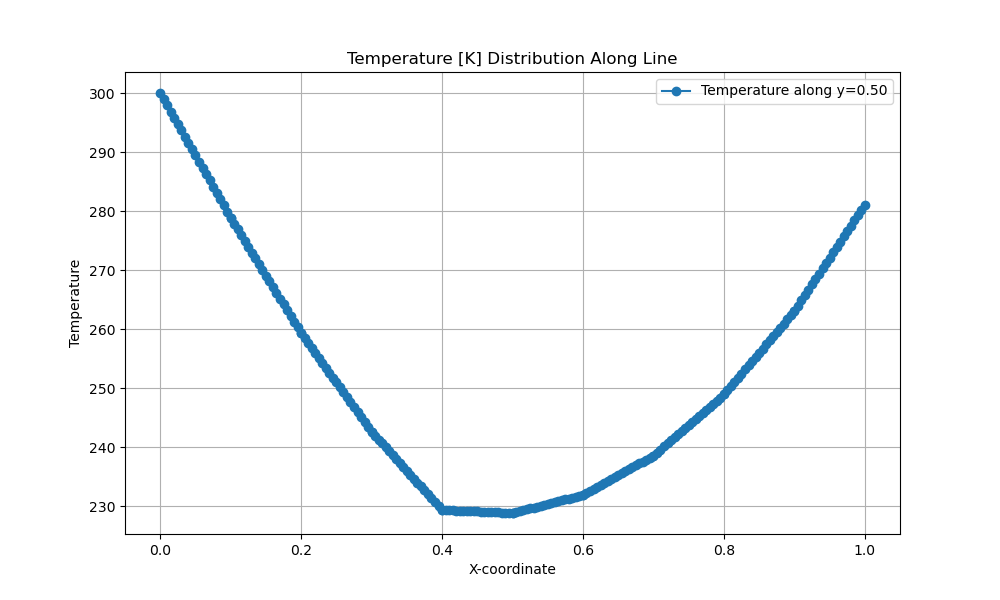
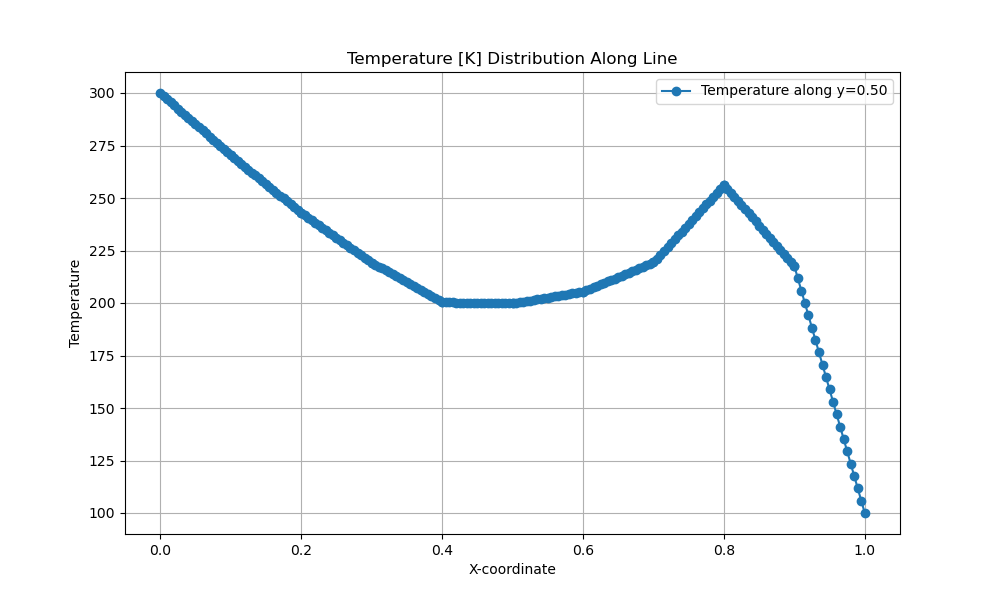
point heat source added

diff --git a/functions.py b/functions.py
@@ -64,8 +64,10 @@ def get_input_variables_from_file(file_path: str = 'input.json'):
     bc_left = input_variables['bc_left']
     bc_right = input_variables['bc_right']
     xy_plot = input_variables['xy_plot']
+    node = input_variables['node']
+    heat_value = input_variables['heat_value']
 
-    return n, m, len_x, len_y, h_x, h_y, t_left, t_right, t_top, t_bottom, x, k1, k2, q_right, q_left, q_bottom, q_top, bc_top, bc_bottom, bc_left, bc_right, xy_plot
+    return n, m, len_x, len_y, h_x, h_y, t_left, t_right, t_top, t_bottom, x, k1, k2, q_right, q_left, q_bottom, q_top, bc_top, bc_bottom, bc_left, bc_right, xy_plot, node, heat_value
 
 def get_local_matrix(h_x, h_y, k):
     """
@@ -239,6 +241,7 @@ def neumann_bottom(load_vector, n, m, h_x, q_bottom, num_nodes_x):
         load_vector[node_index] += q_bottom * h_x  # contribution of heat flux over element's length
 
     return load_vector
+ 
 
 def solve_for_temperatures(global_matrix, load_vector):
     """
@@ -339,7 +342,9 @@ def plot_temp_color_map(temperatures, x_coords, y_coords, len_x, len_y):
     plt.show()
 
 
-def apply_bc():
+n, m, len_x, len_y, h_x, h_y, t_left, t_right, t_top, t_bottom, x, k1, k2, q_right, q_left, q_bottom, q_top, bc_top, bc_bottom, bc_left, bc_right, xy_plot, node, heat_value = get_input_variables_from_file()
+
+def apply_bc(n, m, len_x, len_y, h_x, h_y, t_left, t_right, t_top, t_bottom, x, k1, k2, q_right, q_left, q_bottom, q_top, bc_top, bc_bottom, bc_left, bc_right, node, heat_value):
     """
     Function to first gather the input variables from input.json,
     then apply the boundary conditions, and finally solve for the temperatures.
@@ -356,7 +361,6 @@ def apply_bc():
     num_nodes_y: number of nodes in the y direction
     total_nodes: total number of nodes
     """
-    n, m, len_x, len_y, h_x, h_y, t_left, t_right, t_top, t_bottom, x, k1, k2, q_right, q_left, q_bottom, q_top, bc_top, bc_bottom, bc_left, bc_right, xy_plot = get_input_variables_from_file()
 
     num_nodes_x = n + 1
     num_nodes_y = m + 1
@@ -385,11 +389,22 @@ def apply_bc():
     elif bc_right == 'Neumann':
         load_vector = neumann_right(load_vector, n, m, h_y, q_right, num_nodes_y=num_nodes_y, num_nodes_x=num_nodes_x)
 
+    
+    x_coords, y_coords = get_node_coords(n, m, len_x, len_y)
+    
+    count = 1
+    for i,j in zip(x_coords, y_coords):
+        for x,y in zip(i, j):
+            count += 1
+
+    if node <= count and node is not None:
+        load_vector[node] += heat_value
+    elif node > count:
+        print('Node out of range. It will not be taken into account.')
+
     temperatures = solve_for_temperatures(global_matrix, load_vector)
 
-    x_coords, y_coords = get_node_coords(n, m, len_x, len_y)
-
-    return global_matrix, load_vector, temperatures, x_coords, y_coords, len_x, len_y, num_nodes_x, num_nodes_y, total_nodes, xy_plot
+    return global_matrix, load_vector, temperatures, x_coords, y_coords, num_nodes_x, num_nodes_y, total_nodes
 
 
 def interpolate_temperature_2d(temperatures, x_coords, y_coords, num_points=10):
@@ -517,11 +532,10 @@ def interpolate_temperature_along_line(temperatures, x_coords, y_coords, line='h
     plt.show()
 
 
-global_matrix, load_vector, temperatures, x_coords, y_coords, len_x, len_y, num_nodes_x, num_nodes_y, total_nodes, xy_plot = apply_bc()
-
-print(load_vector)
-print(global_matrix)
-print(temperatures)
+global_matrix, load_vector, temperatures, x_coords, y_coords, num_nodes_x, num_nodes_y, total_nodes = apply_bc(n, m, len_x, len_y, h_x, h_y, t_left, t_right, t_top, t_bottom, x, k1, k2, q_right, q_left, q_bottom, q_top, bc_top, bc_bottom, bc_left, bc_right, node, heat_value)
+# print(load_vector)
+# print(global_matrix)
+# print(temperatures)
 
 plot_nodes(x_coords, y_coords, len_x, len_y)
 plot_temp_at_node(temperatures, x_coords, y_coords, len_x, len_y)
